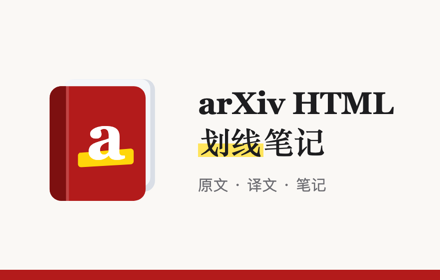
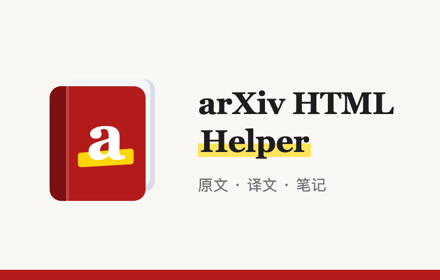
Use "arXiv HTML Helper" as the extension's name everywhere
Manifest name, side panel and library titles, backup file name and
error text, README, homepage, privacy policy, store listing and promo
tile. The backup format id stays unchanged so old backups still import.

Changed region(s): [[0.4432, 0.4571, 0.7386, 0.5714]]

diff --git a/site/privacy.html b/site/privacy.html
@@ -1,17 +1,17 @@
 <!doctype html>
-<html lang="zh-CN" data-lang="zh" data-title-zh="隐私政策 · arXiv HTML 划线笔记" data-title-en="Privacy Policy · arXiv HTML Highlighter &amp; Notes">
+<html lang="zh-CN" data-lang="zh" data-title-zh="隐私政策 · arXiv HTML Helper" data-title-en="Privacy Policy · arXiv HTML Helper">
 <head>
   <meta charset="utf-8">
   <meta name="viewport" content="width=device-width, initial-scale=1">
-  <title>隐私政策 · arXiv HTML 划线笔记</title>
+  <title>隐私政策 · arXiv HTML Helper</title>
   <script src="lang.js?v=dev"></script>
-  <meta name="description" content="arXiv HTML 划线笔记（Chrome 扩展）的隐私政策 / Privacy Policy">
+  <meta name="description" content="arXiv HTML Helper（Chrome 扩展）的隐私政策 / Privacy Policy">
   <link rel="icon" href="icon-32.png" sizes="32x32">
   <link rel="stylesheet" href="style.css?v=dev">
 </head>
 <body>
   <header class="wrap nav">
-    <a class="brand" href="./"><img src="icon.png" alt=""><span lang="zh">arXiv HTML 划线笔记</span><span lang="en">arXiv HTML Highlighter</span></a>
+    <a class="brand" href="./"><img src="icon.png" alt="">arXiv HTML Helper</a>
     <nav class="nav-links">
       <a class="hide-sm" href="https://github.com/Clamours/arxiv-html-helper">GitHub</a>
       <button class="lang-btn" id="lang-toggle" type="button" aria-label="切换语言 / Switch language"><span lang="zh">EN</span><span lang="en">中文</span></button>
@@ -73,7 +73,7 @@
       <h1>Privacy Policy</h1>
       <p class="meta">Effective date: October 11, 2026</p>
 
-      <p class="callout">arXiv HTML Highlighter &amp; Notes ("the extension") has no server of its own. It does not collect, track, or sell any user data, and contains no ads or analytics. Your data stays in your browser and is sent to the services below only when you use the corresponding feature.</p>
+      <p class="callout">arXiv HTML Helper ("the extension") has no server of its own. It does not collect, track, or sell any user data, and contains no ads or analytics. Your data stays in your browser and is sent to the services below only when you use the corresponding feature.</p>
 
       <h2>Data stored locally</h2>
       <p>The following is stored in your browser (<code>chrome.storage.local</code> and the extension's IndexedDB) and is never accessible to the developer: your highlights, notes and the quoted text they anchor to; your paper library (arXiv ids, titles, authors, timestamps, groups, stars); translations displayed by translation extensions on paper pages; pages generated by "Import PDF"; and settings, including WebDAV credentials and your MinerU token, which never leave your device and are excluded from sync and backups. Uninstalling the extension deletes all of it; paper pages that "Import PDF" saved to <code>Downloads/arxiv-html-helper/</code> and backup files you exported are ordinary files you can delete yourself.</p>

diff --git a/site/index.html b/site/index.html
@@ -1,18 +1,18 @@
 <!doctype html>
-<html lang="zh-CN" data-lang="zh" data-title-zh="arXiv HTML 划线笔记" data-title-en="arXiv HTML Highlighter &amp; Notes">
+<html lang="zh-CN" data-lang="zh" data-title-zh="arXiv HTML Helper" data-title-en="arXiv HTML Helper">
 <head>
   <meta charset="utf-8">
   <meta name="viewport" content="width=device-width, initial-scale=1">
-  <title>arXiv HTML 划线笔记</title>
+  <title>arXiv HTML Helper</title>
   <script src="lang.js?v=dev"></script>
-  <meta name="description" content="Chrome 扩展：在 arXiv HTML 论文页上划线、高亮、写笔记，原文和沉浸式翻译 / 陪读蛙的译文都能划。A Chrome extension for highlighting and annotating arXiv HTML papers.">
+  <meta name="description" content="arXiv HTML Helper，Chrome 扩展：在 arXiv HTML 论文页上划线、高亮、写笔记，原文和沉浸式翻译 / 陪读蛙的译文都能划。arXiv HTML Helper: a Chrome extension for highlighting and annotating arXiv HTML papers.">
   <link rel="icon" href="icon-32.png" sizes="32x32">
   <link rel="apple-touch-icon" href="icon.png">
   <link rel="stylesheet" href="style.css?v=dev">
 </head>
 <body>
   <header class="wrap nav">
-    <a class="brand" href="./"><img src="icon.png" alt=""><span lang="zh">arXiv HTML 划线笔记</span><span lang="en">arXiv HTML Highlighter</span></a>
+    <a class="brand" href="./"><img src="icon.png" alt="">arXiv HTML Helper</a>
     <nav class="nav-links">
       <a class="hide-sm" href="#features"><span lang="zh">功能</span><span lang="en">Features</span></a>
       <a class="hide-sm" href="#install"><span lang="zh">安装</span><span lang="en">Install</span></a>

diff --git a/src/core/backup.ts b/src/core/backup.ts
@@ -89,7 +89,7 @@ export function createBackup(all: Record<string, unknown>, extensionVersion: str
 
 export function backupFileName(now = new Date()): string {
   const d = new Date(now.getTime() - now.getTimezoneOffset() * 60000).toISOString().slice(0, 10);
-  return `arxiv-notes-backup-${d}.json`;
+  return `arxiv-html-helper-backup-${d}.json`;
 }
 
 // ---------------------------------------------------------------------------
@@ -116,7 +116,7 @@ export function parseBackup(text: string): ParsedBackup {
     throw new BackupError('文件不是有效的 JSON');
   }
   if (!isObj(data) || data.format !== BACKUP_FORMAT) {
-    throw new BackupError('这不是 arXiv 笔记的备份文件');
+    throw new BackupError('这不是 arXiv HTML Helper 的备份文件');
   }
   if (typeof data.version !== 'number' || data.version > BACKUP_VERSION) {
     throw new BackupError('备份文件来自更新版本的插件，请先升级插件');

diff --git a/tests/backup.test.ts b/tests/backup.test.ts
@@ -58,7 +58,7 @@ describe('createBackup / parseBackup', () => {
 
   it.each([
     ['不是 JSON', 'not json', '文件不是有效的 JSON'],
-    ['别的 JSON', '{"foo":1}', '这不是 arXiv 笔记的备份文件'],
+    ['别的 JSON', '{"foo":1}', '这不是 arXiv HTML Helper 的备份文件'],
     ['更新版本', '{"format":"arxiv-html-notes-backup","version":99,"papers":[]}', '更新版本'],
     ['缺少列表', '{"format":"arxiv-html-notes-backup","version":1}', '缺少论文列表'],
   ])('%s → 报错', (_, text, msg) => {
@@ -177,7 +177,7 @@ describe('planImport：分组', () => {
 });
 
 it('backupFileName 使用本地日期', () => {
-  expect(backupFileName(new Date(2026, 8, 28, 23, 30))).toBe('arxiv-notes-backup-2026-09-28.json');
+  expect(backupFileName(new Date(2026, 8, 28, 23, 30))).toBe('arxiv-html-helper-backup-2026-09-28.json');
 });
 
 describe('planImport：恢复已删除的内容', () => {

diff --git a/src/entrypoints/library/main.ts b/src/entrypoints/library/main.ts
@@ -129,7 +129,7 @@ function render(): void {
   const shown = entries.filter((e) => inView(e, view, groups));
   const label = viewLabel(view, groups);
   viewTitle.textContent = label;
-  document.title = view === 'all' ? '论文库 · arXiv 笔记' : `${label} · 论文库`;
+  document.title = view === 'all' ? '论文库 · arXiv HTML Helper' : `${label} · 论文库`;
   const total = shown.reduce((n, e) => n + e.annotations.length, 0);
   const notes = shown.reduce((n, e) => n + e.annotations.filter((a) => a.note.trim()).length, 0);
   stats.textContent = [

diff --git a/wxt.config.ts b/wxt.config.ts
@@ -36,7 +36,7 @@ export default defineConfig({
     const clientId = process.env.GOOGLE_CLIENT_ID?.trim();
     const forStore = process.env.STORE_BUILD === '1';
     return {
-      name: 'arXiv HTML 划线笔记',
+      name: 'arXiv HTML Helper',
       description: '在 arXiv HTML 页面上划线、高亮、做笔记，支持沉浸式翻译 / 陪读蛙的译文。',
       permissions: ['storage', 'unlimitedStorage', 'sidePanel', 'alarms', ...(clientId ? ['identity'] : [])],
       // 论文库从 arXiv API 获取标题和作者

diff --git a/src/entrypoints/sidepanel/main.ts b/src/entrypoints/sidepanel/main.ts
@@ -75,7 +75,7 @@ function render(): void {
   list.replaceChildren();
   providersEl.replaceChildren();
   if (!state) {
-    titleEl.textContent = 'arXiv 笔记';
+    titleEl.textContent = 'arXiv HTML Helper';
     subEl.textContent = '';
     exportBtn.hidden = true;
     flagBtn.hidden = true;

diff --git a/store/promo-small.html b/store/promo-small.html
@@ -24,7 +24,7 @@
   <div class="tile">
     <img src="../src/assets/icon.svg" alt="">
     <div>
-      <h1>arXiv HTML<br><span class="hl">划线</span>笔记</h1>
+      <h1>arXiv HTML<br><span class="hl">Helper</span></h1>
       <p>原文 · 译文 · 笔记</p>
     </div>
   </div>

diff --git a/src/entrypoints/library/index.html b/src/entrypoints/library/index.html
@@ -3,7 +3,7 @@
   <head>
     <meta charset="utf-8" />
     <meta name="viewport" content="width=device-width, initial-scale=1" />
-    <title>论文库 · arXiv 笔记</title>
+    <title>论文库 · arXiv HTML Helper</title>
   </head>
   <body>
     <div class="layout">

diff --git a/src/entrypoints/sidepanel/index.html b/src/entrypoints/sidepanel/index.html
@@ -3,7 +3,7 @@
   <head>
     <meta charset="utf-8" />
     <meta name="viewport" content="width=device-width, initial-scale=1" />
-    <title>arXiv 笔记</title>
+    <title>arXiv HTML Helper</title>
   </head>
   <body>
     <header>

diff --git a/docs/store-listing.md b/docs/store-listing.md
@@ -6,6 +6,10 @@
 
 ## 商品详情（Store listing）
 
+### 名称
+
+不用填：取自 manifest 的 `name`（`wxt.config.ts`），即 **arXiv HTML Helper**。主页、隐私政策、宣传图和扩展页面标题都用这个名字，改名时一起改。
+
 ### 摘要
 
 不用填：后台直接取 manifest 的 `description`（`wxt.config.ts`，最多 132 个字符）：

diff --git a/README.md b/README.md
@@ -1,4 +1,4 @@
-# arXiv HTML 划线笔记
+# arXiv HTML Helper
 
 Chrome 扩展：在 arXiv HTML 论文页（`arxiv.org/html/…`、ar5iv）上划线、高亮、写笔记。原文和沉浸式翻译 / 陪读蛙显示的译文都可以划。
 
